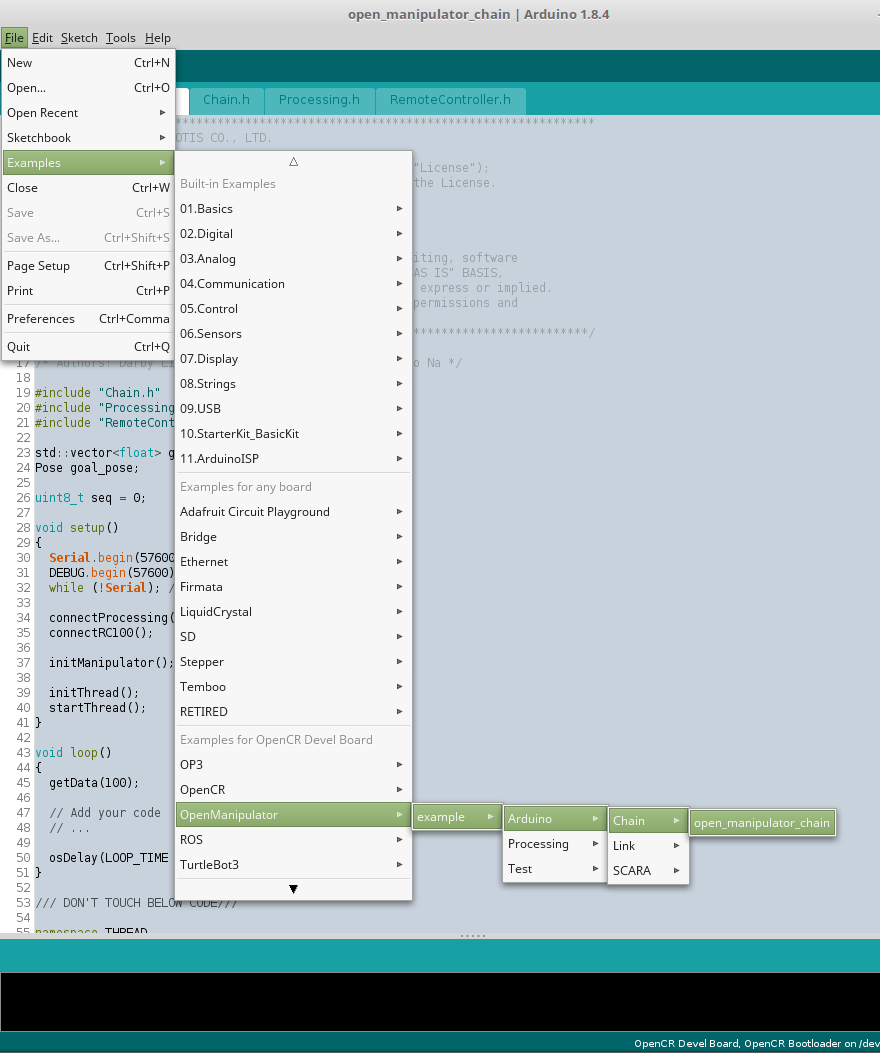
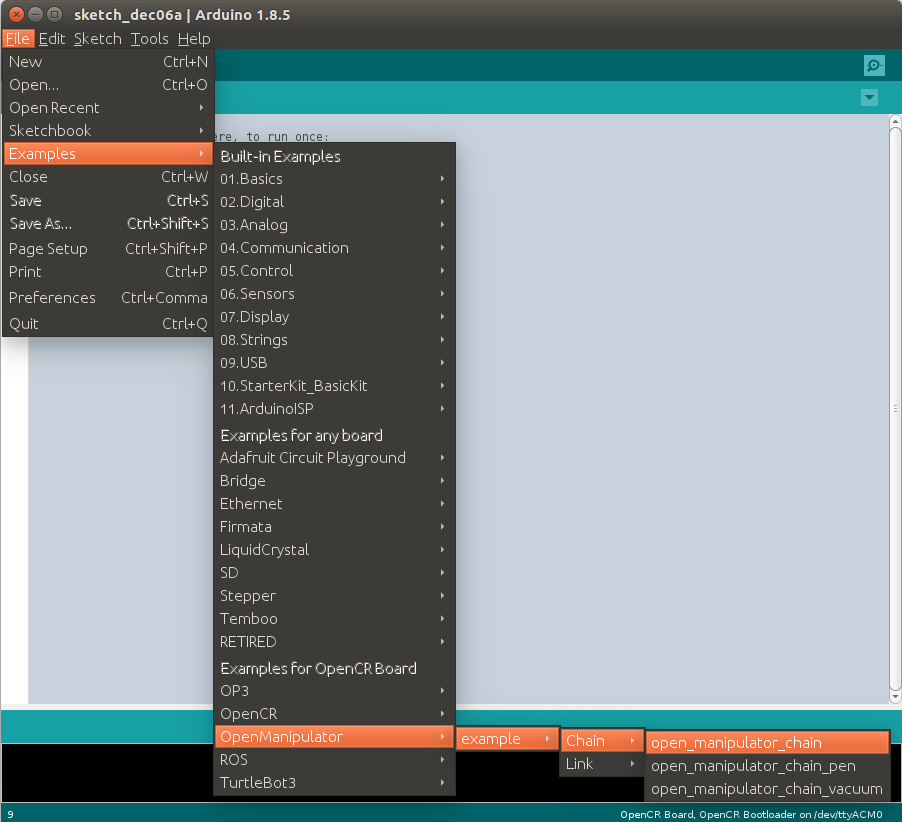
update

diff --git a/docs/en/platform/openmanipulator.md b/docs/en/platform/openmanipulator.md
@@ -593,7 +593,6 @@ This parameter is descripted on OpenManipulator.cpp in open_manipulator_libs pkg
 **NOTE**: 
 - This instructions were tested on `Ubuntu 16.04` and `ROS Kinetic Kame`.
 - This instructions are supposed to be running on PC ROS packages installed in. Please run the instructions below on your PC ROS packages installed in.
-- Make sure to run the [Open Manipulator controller](/docs/en/platform/openmanipulator/#launch-controller) instructions before running the instructions below.
 {% endcapture %}
 <div class="notice--info">{{ notice_01 | markdownify }}</div>
 
@@ -602,6 +601,15 @@ Load an OpenManipulator on RViz.
 ```
 $ roslaunch open_manipulator_description open_manipulator_rviz.launch
 ```
+
+{% capture notice_01 %}
+**NOTE**: 
+- When the user launch the Rviz with the [OpenManipulator controller](/docs/en/platform/openmanipulator/#launch-controller), the OpenManipulator model of Rviz is synchronized with the actual OpenManipulator.
+- If the user wants to check only model of OpenManipulator without control the actual OpenManipulator, the user can launch the Rviz without the OpenManipulator controller.
+The user can change each joint by GUI, if the user launch only Rviz by executing the following command :
+`$ roslaunch open_manipulator_description open_manipulator_rviz.launch use_gui:=true`
+{% endcapture %}
+<div class="notice--info">{{ notice_01 | markdownify }}</div>
 
 ![](/assets/images/platform/openmanipulator/OpenManipulator_rviz.png)
 
@@ -662,7 +670,7 @@ The topic list is published by open_manipulator_controller.
 
 ![](/assets/images/platform/openmanipulator/rqt_joint_states.png)
 
-`/open_manipulator/kinematics_pose`([open_manipulator_msgs/KinematicsPose]{: .popup}) is a message indicating the pose(position and orientation) on world coordinates(cartesian) of OpenManipulator gripper. **"position"** indicates x, y, and z value of the center of the tool gripper. **"Orientation"** indicates the direction of the tool gripper as quaternion.
+`/open_manipulator/kinematics_pose`([open_manipulator_msgs/KinematicsPose]{: .popup}) is a message indicating the pose(position and orientation) in [task space]{: .popup}. **"position"** indicates x, y, and z value of the center of the end-effector(tool). **"Orientation"** indicates the direction of the end-effector(tool) as quaternion.
 
 ![](/assets/images/platform/openmanipulator/rqt_kinematic_pose.png)
 
@@ -702,14 +710,14 @@ In addition, you can monitor topics through rqt whenever you have a topic added 
 This is Service Server list of open_manipulator_controller.
 
 - `/open_manipulator/goal_joint_space_path` ([open_manipulator_msgs/SetJointPosition]{: .popup})  
-The user can use this service to create a trajectory in the joint space. The user inputs the angle of the target joint and the total time of the trajectory.
+The user can use this service to create a trajectory in the [joint space]{: .popup}. The user inputs the angle of the target joint and the total time of the trajectory.
   
 
 - `/open_manipulator/goal_task_space_path` ([open_manipulator_msgs/SetKinematicsPose]{: .popup})  
 The user can use this service to create a trajectory in the [task space]{: .popup}. The user inputs the kinematics pose of the OpenManipulator end-effector(tool) in the [task space]{: .popup} and the total time of the trajectory.
 
 - `/open_manipulator/goal_joint_space_path_to_present` ([open_manipulator_msgs/SetJointPosition]{: .popup})  
-The user can use this service to create a trajectory from present joint angle in the joint space. The user inputs the angle of the target joint to be changed and the total time of the trajectory.
+The user can use this service to create a trajectory from present joint angle in the [joint space]{: .popup}. The user inputs the angle of the target joint to be changed and the total time of the trajectory.
 
 - `/open_manipulator/goal_task_space_path_to_present` ([open_manipulator_msgs/SetKinematicsPose]{: .popup})  
 The user can use this service to create a trajectory from present kinematics pose in the task space. The user inputs the kinematics pose to be changed of the OpenManipulator end-effector(tool) in the [task space]{: .popup} and the total time of the trajectory.
@@ -746,7 +754,7 @@ The user can use this service to create a drawing trajectory. The user can creat
   The user can check the states of the OpenManipulator (joint states, kinematics pose).  
   ![](/assets/images/platform/openmanipulator/OpenManipulator_GUI2.png)  
 
-  The user can manipulate the OpenManipulator in the joint space. Enter the joint angles and total time of the trajectory. Then click the `send` button.  
+  The user can manipulate the OpenManipulator in the [joint space]{: .popup}. Enter the joint angles and total time of the trajectory. Then click the `send` button.  
   ![](/assets/images/platform/openmanipulator/OpenManipulator_GUI3.png)  
 
   The user can manipulate the OpenManipulator in the [task space]{: .popup}. Enter the kinematics pose of the OpenManipulator end-effector(tool) in the [task space]{: .popup} and the total time of the trajectory. Then click the `send` button.  
@@ -1002,7 +1010,11 @@ User can make thier code in **Arduino IDE** and simulate or control using **Proc
 
 ## [Setup](#setup) 
 
---hardware setup
+Connect micro USB (connected to PC), Dynamixel(OpenManipulator), and 12V Power to OpenCR as shown below. 
+
+<img src="/assets/images/platform/openmanipulator/OpenManipulator_opencr_setup.png" width="500">
+
+Please refer the detailed description of [OpenCR](http://emanual.robotis.com/docs/en/parts/controller/opencr10/)
 
 
 ## [Arduino IDE](#arduino-ide)
@@ -1013,7 +1025,7 @@ Download Arduino IDE and load OpenCR board on it
 
 Find example source codes.
 
-Go to `Examples` → `OpenManipulator` → `example` → `Arduino` → `Chain` → `open_manipulator_chain` on Arduino IDE for OpenCR.
+Go to `Examples` → `OpenManipulator` → `example` → `Chain` → `open_manipulator_chain` on Arduino IDE for OpenCR.
 
 ![](/assets/images/platform/openmanipulator/OpenManipulator_chain_arduino.png)
 
@@ -1027,7 +1039,14 @@ Open Processing and Go to `Tools` → `Add Tool..`. Search `ControlP5` and insta
 
 ![](/assets/images/platform/openmanipulator/OpenManipulator_chain_processing_1.png)
 
-Open processing source code file (`OpenCR`>`arduino`>`opencr_arduino`>`opencr`>`libraries`>`OpenManipulator`>`example`>`Processing`>`Chain`>`Chain.pde`) on Processing IDE, and Run it.
+Download processing source code for OpenManipulator. 
+
+```
+$ git clone git@github.com:ROBOTIS-GIT/open_manipulator_processing.git
+```
+
+Open processing source code file 
+(`open_manipulator_processing`>`Chain`>`Chain.pde`) on Processing IDE, and Run it.
 
 **NOTE**: Upload **OpenCR example source code** to OpenCR before run **processing source code**.
 {: .notice--info}
@@ -1044,7 +1063,7 @@ Open processing source code file (`OpenCR`>`arduino`>`opencr_arduino`>`opencr`>`
   To manipulate the OpenManipulator, click the toggle button to `CONTROLLER ON`.  
   ![](/assets/images/platform/openmanipulator/OpenManipulator_chain_processing_3.png)  
 
-  The user can manipulate the OpenManipulator in the joint space.  
+  The user can manipulate the OpenManipulator in the [joint space]{: .popup}.  
   Set the joint angles. Then click the `SEND JOINT ANGLE` button. And set the gripper parameter. Then click the `SET GRIPPER` button.  
   ![](/assets/images/platform/openmanipulator/OpenManipulator_chain_processing_4.png)  
 
@@ -1435,3 +1454,4 @@ CAD Files ([Onshape](http://www.robotis.com/service/download.php?no=761), [Thing
 [std_msgs::String]: /docs/en/popup/std_msgs_string/
 
 [task space]: /docs/en/popup/open_manipulator_coordinates/
+[joint space]: /docs/en/popup/open_manipulator_coordinates/
